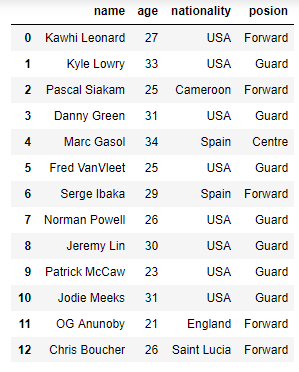
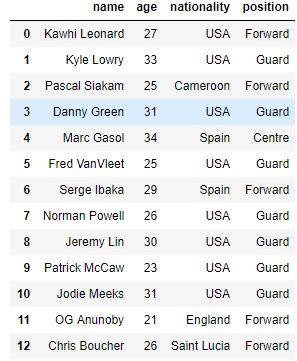
Generate Pelican site

diff --git a/blog-1.html b/blog-1.html
@@ -23,7 +23,6 @@
 <p>1) Create DataFrames/Upload data</p>
 <p>2) Filter and extract data</p>
 <p>3) Exploring and Analyzing data</p>
-<p>4) Structuring desired data for plots</p>
 <p>If you're someone like me who needs to see things in action to get a better understanding of how they work then do not worry we are about to get started now!</p>
 <p><img alt="test" src="images\panda.png"></p>
 <p>The first thing we need to do is to import the Pandas library into our notebook to get started:</p>
@@ -35,7 +34,10 @@
 <p><em>It is good practice to alway load whichever libraries you will be using in your work at the very beginning of your notebook</em></p>
 <p>The beauty of using Pandas is that it allows you to analyze and explore data in many different ways and many different sizes.</p>
 <p>You can load prebuilt datasets using:</p>
-<p>data_name = pd.read_csv('file_name.csv') </p>
+<div class="highlight"><pre><span></span><span class="n">data_name</span> <span class="o">=</span> <span class="n">pd</span><span class="o">.</span><span class="n">read_csv</span><span class="p">(</span><span class="s1">&#39;file_name.csv&#39;</span><span class="p">)</span> 
+</pre></div>
+
+
 <p><em>(This function allows you to upload csv files which are excel based into your notebook. This is extremely helpful when you need to analyze large data sets which are already created using excel files)</em></p>
 <p>Or</p>
 <p>Lets say you want to analyze a small data sample. You can easily whip up your own data set using Pandas pd.DataFrame function. 
@@ -46,7 +48,7 @@ Lets go ahead and give you an example:</p>
     <span class="s1">&#39;Jeremy Lin&#39;</span><span class="p">,</span> <span class="s1">&#39;Patrick McCaw&#39;</span><span class="p">,</span> <span class="s1">&#39;Jodie Meeks&#39;</span><span class="p">,</span> <span class="s1">&#39;OG Anunoby&#39;</span><span class="p">,</span> <span class="s1">&#39;Chris Boucher&#39;</span><span class="p">],</span>
     <span class="s1">&#39;age&#39;</span><span class="p">:[</span><span class="mi">27</span><span class="p">,</span><span class="mi">33</span><span class="p">,</span><span class="mi">25</span><span class="p">,</span><span class="mi">31</span><span class="p">,</span><span class="mi">34</span><span class="p">,</span><span class="mi">25</span><span class="p">,</span><span class="mi">29</span><span class="p">,</span><span class="mi">26</span><span class="p">,</span><span class="mi">30</span><span class="p">,</span><span class="mi">23</span><span class="p">,</span><span class="mi">31</span><span class="p">,</span><span class="mi">21</span><span class="p">,</span><span class="mi">26</span><span class="p">],</span>
     <span class="s1">&#39;nationality&#39;</span><span class="p">:</span> <span class="p">[</span><span class="s1">&#39;USA&#39;</span><span class="p">,</span> <span class="s1">&#39;USA&#39;</span><span class="p">,</span> <span class="s1">&#39;Cameroon&#39;</span><span class="p">,</span> <span class="s1">&#39;USA&#39;</span><span class="p">,</span> <span class="s1">&#39;Spain&#39;</span><span class="p">,</span> <span class="s1">&#39;USA&#39;</span><span class="p">,</span><span class="s1">&#39;Spain&#39;</span><span class="p">,</span><span class="s1">&#39;USA&#39;</span><span class="p">,</span> <span class="s1">&#39;USA&#39;</span><span class="p">,</span><span class="s1">&#39;USA&#39;</span><span class="p">,</span><span class="s1">&#39;USA&#39;</span><span class="p">,</span><span class="s1">&#39;England&#39;</span><span class="p">,</span> <span class="s1">&#39;Saint Lucia&#39;</span><span class="p">],</span>
-    <span class="s1">&#39;posion&#39;</span><span class="p">:</span> <span class="p">[</span><span class="s1">&#39;Forward&#39;</span><span class="p">,</span> <span class="s1">&#39;Guard&#39;</span><span class="p">,</span> <span class="s1">&#39;Forward&#39;</span><span class="p">,</span> <span class="s1">&#39;Guard&#39;</span><span class="p">,</span> <span class="s1">&#39;Centre&#39;</span><span class="p">,</span><span class="s1">&#39;Guard&#39;</span><span class="p">,</span> <span class="s1">&#39;Forward&#39;</span><span class="p">,</span> <span class="s1">&#39;Guard&#39;</span><span class="p">,</span> <span class="s1">&#39;Guard&#39;</span><span class="p">,</span> <span class="s1">&#39;Guard&#39;</span><span class="p">,</span><span class="s1">&#39;Guard&#39;</span><span class="p">,</span> <span class="s1">&#39;Forward&#39;</span><span class="p">,</span> <span class="s1">&#39;Forward&#39;</span><span class="p">]</span>
+    <span class="s1">&#39;position&#39;</span><span class="p">:</span> <span class="p">[</span><span class="s1">&#39;Forward&#39;</span><span class="p">,</span> <span class="s1">&#39;Guard&#39;</span><span class="p">,</span> <span class="s1">&#39;Forward&#39;</span><span class="p">,</span> <span class="s1">&#39;Guard&#39;</span><span class="p">,</span> <span class="s1">&#39;Centre&#39;</span><span class="p">,</span><span class="s1">&#39;Guard&#39;</span><span class="p">,</span> <span class="s1">&#39;Forward&#39;</span><span class="p">,</span> <span class="s1">&#39;Guard&#39;</span><span class="p">,</span> <span class="s1">&#39;Guard&#39;</span><span class="p">,</span> <span class="s1">&#39;Guard&#39;</span><span class="p">,</span><span class="s1">&#39;Guard&#39;</span><span class="p">,</span> <span class="s1">&#39;Forward&#39;</span><span class="p">,</span> <span class="s1">&#39;Forward&#39;</span><span class="p">]</span>
 <span class="p">})</span>
 
 <span class="n">raptors</span>
@@ -91,6 +93,9 @@ DataFrames are extremely powerful and useful objects: 'containers' that hold a l
 <p>Lets bring back our DataFrame and get started.</p>
 <div class="highlight"><pre><span></span><span class="n">raptors</span>
 </pre></div>
+
+
+<p><img alt="test" src="images\raptors_table.png"></p>
  </div>
 </div>
  </div>
